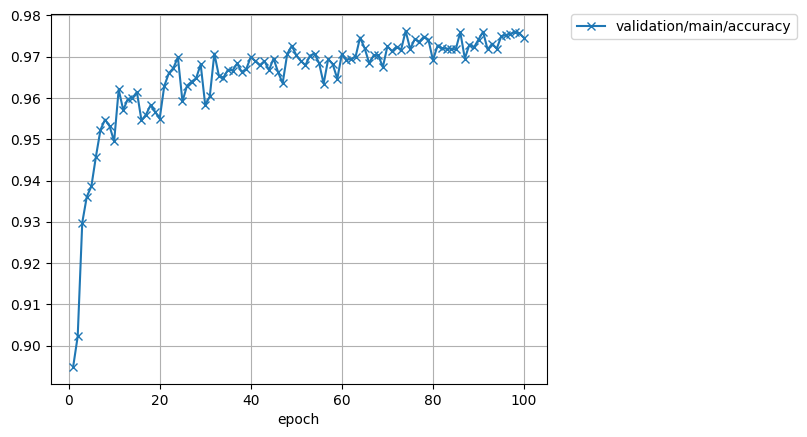
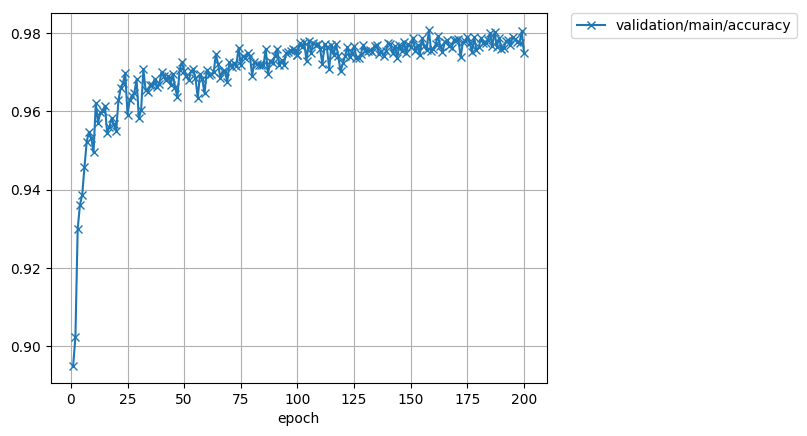
update README and finish training experiment

diff --git a/train.py b/train.py
@@ -21,6 +21,8 @@ from net import DigitClassifier
 from util import gray2rgb
 from util import scale
 
+from opt import params
+
 
 def main():
     parser = argparse.ArgumentParser()
@@ -105,6 +107,12 @@ def main():
             extensions.PlotReport(
                 ['main/accuracy', 'validation/main/accuracy'],
                 'epoch', file_name='accuracy.png'))
+
+    # Exponential learning weight decay
+    trainer.extend(
+        extensions.ExponentialShift('alpha', params['alpha_decay_rate'],
+                                    optimizer=optimizer),
+        trigger=(params['alpha_decay_steps'], 'iteration'))
 
     # Print selected entries of the log to stdout
     # Here "main" refers to the target link of the "main" optimizer again, and

diff --git a/README.md b/README.md
@@ -9,14 +9,13 @@ This is an unofficial chainer re-implementation of a paper, Unsupervised Pixel-L
 - Matplotlib
 
 ## Performance on MNIST -> MNIST-M
-
 Note that this is not reproduced perfectly.
-
+Batchsize=32, #epoch=200.
 | Method | Original [1] | Ours |
 |:-:|:-:|:-:|
-| Source-only | 63.6 % |  60.4 % (20 epoch)|
-| Target-only | 96.4 % |  95.9 % (20 epoch)|
-| PixelDA | 98.2 %  |  97.6 % (100 epoch) |
+| Source-only | 63.6 % |  59.5 % |
+| Target-only | 96.4 % |  95.9 % |
+| PixelDA | 98.2 %  |  98.0 % |
 
 ## Usage
 
